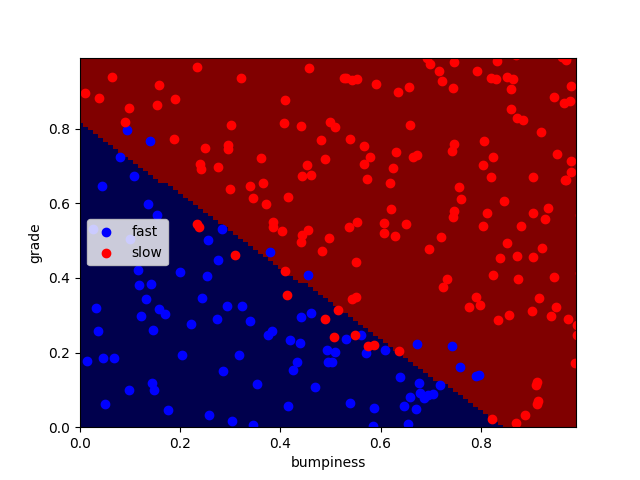
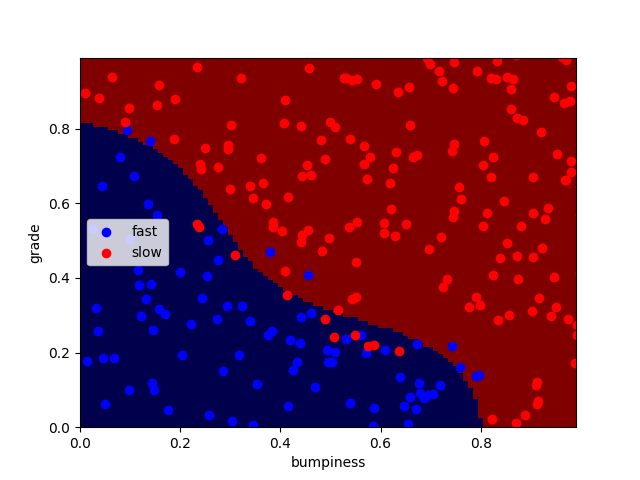
Updated README.md

diff --git a/svm.py b/svm.py
@@ -13,7 +13,7 @@ features_train, labels_train, features_test, labels_test = makeTerrainData()
 from sklearn.svm import SVC
 
 # Create an SVM classifier with a linear kernel
-clf = SVC(kernel="linear")
+clf = SVC(kernel="rbf", C=1.0)
 
 # Train the classifier on the training data
 clf.fit(features_train, labels_train)

diff --git a/README.md b/README.md
@@ -29,8 +29,16 @@ python svm_terrain_classifier.py
 - The script prints dataset shapes and model accuracy in the console.
 - The decision boundary of the SVM classifier is displayed as a matplotlib plot.
 
+### Console Output
+```
+Training features shape: (750, 2)
+Training labels shape: (750,)
+Test features shape: (250, 2)
+Test labels shape: (250,)
+Model Accuracy: 0.92
+```
+
 ## Troubleshooting
 - If `prettyPicture()` is not found, ensure `class_vis.py` is in the same directory.
 - If `makeTerrainData()` does not work, verify that `prep_terrain_data.py` is correctly implemented.
-
 
